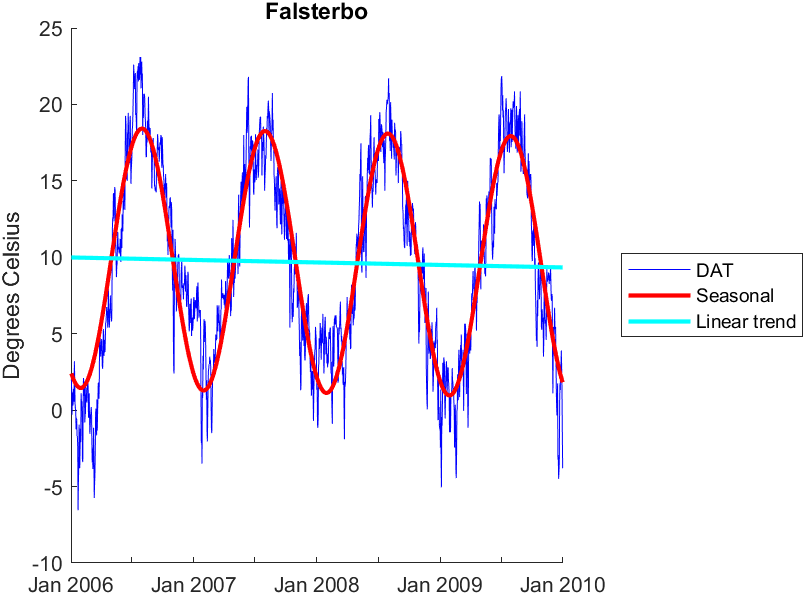
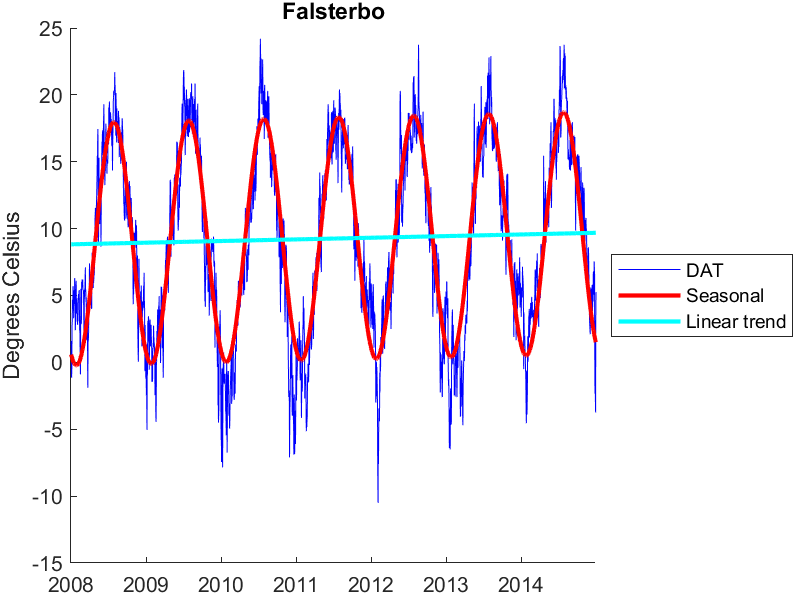
Updated sample periods and EM algorithm.

diff --git a/ProjectWrapper.m b/ProjectWrapper.m
@@ -46,16 +46,19 @@ clear sourceDir sourceFiles k; % Remove variables not to be used again
 % Transform the data and calculate daily average temperatures
 
 for k = 1 : length(Sets) % Iterate to parse all chosen data sets
-    Sets(1,k).InSample = datetime(2006,01,01):datetime(2009,12,31);
-    Sets(1,k).OutOfSample = datetime(2010,01,01):datetime(2019,12,31);
-    Sets(1,k).InSample(month(Sets(1,k).InSample) == 2 & ...
-        day(Sets(1,k).InSample) == 29) = []; % Clean leap days
-    Sets(1,k).OutOfSample(month(Sets(1,k).OutOfSample) == 2 & ...
-        day(Sets(1,k).OutOfSample) == 29) = []; % Clean leap days
+    Sets(1,k).InSample = datetime(2008,01,01):datetime(2014,12,31);
+    Sets(1,k).OutOfSample = datetime(2015,01,01):datetime(2019,12,31);
+    Sets(1,k).InSample(month(Sets(1,k).InSample) == 2 ...
+        & day(Sets(1,k).InSample) == 29) ...
+        = []; % Clean leap days
+    Sets(1,k).OutOfSample(month(Sets(1,k).OutOfSample) == 2 ...
+        & day(Sets(1,k).OutOfSample) == 29) ...
+        = []; % Clean leap days
     
     Sets(1,k).Clean = DailyAverage(Sets(1,k).Clean(:,1), settings.avgType);
-    Sets(1,k).Clean(month(Sets(1,k).Clean.Time) == 2 & ...
-        day(Sets(1,k).Clean.Time) == 29,:) = [];
+    Sets(1,k).Clean(month(Sets(1,k).Clean.Time) == 2 ...
+        & day(Sets(1,k).Clean.Time) == 29,:) ...
+        = [];
 end
 
 % Check for nans
@@ -73,21 +76,18 @@ clear k n
 seasonFunction = @(a, t) a(1) + a(2) * t + ...
     a(3) * sin(2 * pi / 365 * (t - a(4)));
 
-X = zeros(4, length(Sets));
-FVAL = zeros(1,length(Sets));
-guess = [18, 0.0005, 5, 0];
+guess = [8, 0.0005, 5, 100];
 for k = 1 : length(Sets) % Iterate to deseason all chosen data sets
-    [X(:, k), FVAL(1,k)] = ...
+    [Sets(1,k).Season_Theta, Sets(1,k).Season_FVal] = ...
         Deseason(transpose(Sets(1,k).Clean.Degrees(Sets(1,k).InSample)), ...
         seasonFunction, length(Sets(1,k).InSample), guess, ...
         settings.fminconOptions);
-    % TODO: Add try/catch in Deseason
 end
 
 for k = 1 : length(Sets)
     Sets(1,k).Deseasoned = Sets(1,k).Clean(Sets(1,k).InSample,:);
     Sets(1,k).Deseasoned.Degrees = Sets(1,k).Deseasoned.Degrees - ...
-        transpose(seasonFunction(X(:,k), 0:length(Sets(1,k).InSample)-1));
+        transpose(seasonFunction(Sets(1,k).Season_Theta, 0:length(Sets(1,k).InSample)-1));
 end
 
 clear k guess
@@ -97,7 +97,7 @@ clear k guess
 close ALL
 
 % Settings for figures
-showFigures = false;
+showFigures = true;
 saveFigures = true;
 showSeason = true;
 showTref = false;
@@ -106,7 +106,7 @@ setPeriod = "In"; % Alternatives: "In", "InOut"
 
 status = zeros(1,length(Sets));
 for k = 1 : length(Sets) % Iterate to generate DAT figures
-    [status(k)] = GenerateDATPlot(Sets(1,k), seasonFunction, X(:,k), ...
+    [status(k)] = GenerateDATPlot(Sets(1,k), seasonFunction, Sets(1,k).Season_Theta, ...
         showFigures, saveFigures, showSeason, showTref, showLinTrend, ...
         setPeriod);
     %fprintf(sprintf('DAT plot status: %d.\n', status(1,k)))
@@ -145,31 +145,31 @@ f_VG_new = @(x, lambda, alpha, beta, mu) (alpha^2 - beta^2)^(2 * lambda) ...
     / (sqrt(pi) * gamma(lambda) * (2 * alpha)^(lambda - 1/2)) ...
     * exp(beta * (x - mu));
 
-%%
+%% Maximum likelihood estimation of 
 % lambda, alpha, beta, delta, mu
-guess.GH = [1, 1.7178, -0.3921, 1.6783, 0.6179]';
-guess.HYP = [(1), 1.7178, -0.3921, 1.6783, 0.6179]';
-guess.NIG = [(-1/2), 1.7178, -0.3921, 1.6783, 0.6179]';
+guess.GH = [1, 1.7178, 0.3921, 1.6783, 0.6179]';
+guess.HYP = [(1), 1.7178, 0.3921, 1.6783, 0.6179]';
+guess.NIG = [(-1/2), 1.7178, 0.3921, 1.6783, 0.6179]';
 guess.VG = [0.5, 0.3, 0.2, 1]';
 
-for k = 1 : length(Sets)
+for k = 1 : length(Sets) % Ska det vara MINUS log_likeli...?
     [Sets(1, k).ML_Theta.GH, Sets(1, k).ML_FVal.GH] = fmincon(@(x) ...
         -log_likelihood_f_GH(Sets(1, k).Deseasoned.Degrees, f_GH, x(1), x(2), x(3), x(4), x(5)), ...
         guess.GH, ...
-        [], [], [], [], [], [], [], settings.fminconOptions);
+        [], [], [], [], [-inf -inf -inf 0 -inf], [], [], settings.fminconOptions);
     %   A, b, Aeq, beq, lb, ub, nonlcon, options
     [Sets(1, k).ML_Theta.HYP, Sets(1, k).ML_FVal.HYP] = fmincon(@(x) ...
         -log_likelihood_f_GH(Sets(1, k).Deseasoned.Degrees, f_GH, x(1), x(2), x(3), x(4), x(5)), ...
         guess.HYP, ...
-        [], [], [], [], [], [], [], settings.fminconOptions);
+        [], [], [], [], [1 -inf -inf -inf -inf], [1 inf inf inf inf], [], settings.fminconOptions);
     [Sets(1, k).ML_Theta.NIG, Sets(1, k).ML_FVal.NIG] = fmincon(@(x) ...
         -log_likelihood_f_GH(Sets(1, k).Deseasoned.Degrees, f_GH, x(1), x(2), x(3), x(4), x(5)), ...
         guess.NIG, ...
-        [], [], [], [], [], [], [], settings.fminconOptions);
-    [Sets(1, k).ML_Theta.VG, Sets(1, k).ML_FVal.VG] = fmincon(@(x) ...
-        -log_likelihood_f_VG(Sets(1, k).Deseasoned.Degrees, f_VG_new, x(1), x(2), x(3), x(4)), ...
-        guess.VG, ...
-        [], [], [], [], [], [], [], settings.fminconOptions);
+        [], [], [], [], [-1/2 -inf -inf -inf -inf], [-1/2 inf inf inf inf], [], settings.fminconOptions);
+%     [Sets(1, k).ML_Theta.VG, Sets(1, k).ML_FVal.VG] = fmincon(@(x) ...
+%         -log_likelihood_f_VG(Sets(1, k).Deseasoned.Degrees, f_VG_new, x(1), x(2), x(3), x(4)), ...
+%         guess.VG, ...
+%         [], [], [], [], [], [], [], settings.fminconOptions);
 end
 %%
 
@@ -187,7 +187,6 @@ beta = 0.1839;
 delta = 5.5849e-6; 
 mu = 0.4638;
 
-
 %HYP
 lambda = 1;
 alpha = 1.71785; 
@@ -195,7 +194,8 @@ beta = -0.3921;
 delta = 1.6783; 
 mu = 0.6179;
 
-%f_GH(1, lambda, alpha, beta, delta, mu)
+%log(f_GH(1, lambda, alpha, beta, delta, mu))
+%log_f_GH(1, lambda, alpha, beta, delta, mu)
 
 %NIG
 lambda = -1/2;
@@ -212,8 +212,18 @@ delta = 0.0;
 mu = 0.5004;
 
 %f_GH(1, lambda, alpha, beta, delta, mu)
-test = zeros(length(Sets(1,1).Deseasoned.Degrees),1);
-for i = 1:length(Sets(1,1).Deseasoned.Degrees)
+pdf_series = zeros(length(Sets(1,1).Deseasoned.Degrees),1);
+sorted_deg = sort(Sets(1,1).Deseasoned.Degrees);
+%for i = 1:length(sorted_deg)
+n = 1;
+for i = -10:0.01:10
     %data = [ data f_GH(x_i, lambda, alpha, beta, delta, mu)];
-    test(i,1) = f_VG_new(Sets(1,1).Deseasoned.Degrees(i), lambda, alpha, beta, mu);
+    lambda = Sets(1,1).ML_Theta.NIG(1);
+    alpha = Sets(1,1).ML_Theta.NIG(2);
+    beta = Sets(1,1).ML_Theta.NIG(3);
+    delta = Sets(1,1).ML_Theta.NIG(4);
+    mu = Sets(1,1).ML_Theta.NIG(5);
+    %pdf_series(i,1) = f_GH(sorted_deg(i), lambda, alpha, beta, delta, mu);
+    test(n,3) = f_GH(i, lambda, alpha, beta, delta, mu);
+    n = n + 1;
 end

diff --git a/log_f_GH.m b/log_f_GH.m
@@ -1,0 +1,13 @@
+function [log_f] = log_f_GH(x, lambda, alpha, beta, delta, mu)
+%LOG_F_GH Summary of this function goes here
+%   Detailed explanation goes here
+
+log_f = lambda * log(alpha^2 - beta^2) ...
+    - (1 / 2 * log(2 * pi) + lambda * log(delta) + (lambda - 1 / 2) * log(alpha) + log(besselk(lambda, delta * sqrt(alpha^2 - beta^2)))) ...
+    + (lambda / 2 - 1 / 4) * log(delta^2 + (x - mu)^2) ...
+    + log(besselk(lambda - 1/2, alpha * sqrt(delta^2 + (x - mu)^2))) ...
+    + beta * (x - mu);
+
+
+end
+

diff --git a/DataParsing/WeatherSet.m b/DataParsing/WeatherSet.m
@@ -9,7 +9,9 @@ classdef WeatherSet
         OutOfSample % Time range for out-of-sample
         DataSet % Data array
         Clean % Set of cleaned DATs
-        Deseasoned
+        Deseasoned % Set of deseasoned DATs
+        Season_Theta % Optimal deseasoning parameters
+        Season_FVal % Optimal function value for deseasoning
         
         Skewness
         Kurtosis

diff --git a/log_likelihood_f_GH.m b/log_likelihood_f_GH.m
@@ -6,7 +6,7 @@ likelihood = 0;
 %data = [];
 for x_i = x'
     %data = [ data f_GH(x_i, lambda, alpha, beta, delta, mu)];
-    likelihood = likelihood + log(f_GH(x_i, lambda, alpha, beta, delta, mu));
+    likelihood = likelihood + (log_f_GH(x_i, lambda, alpha, beta, delta, mu));
 end
 
 %[lambda, alpha, beta, delta, mu]
